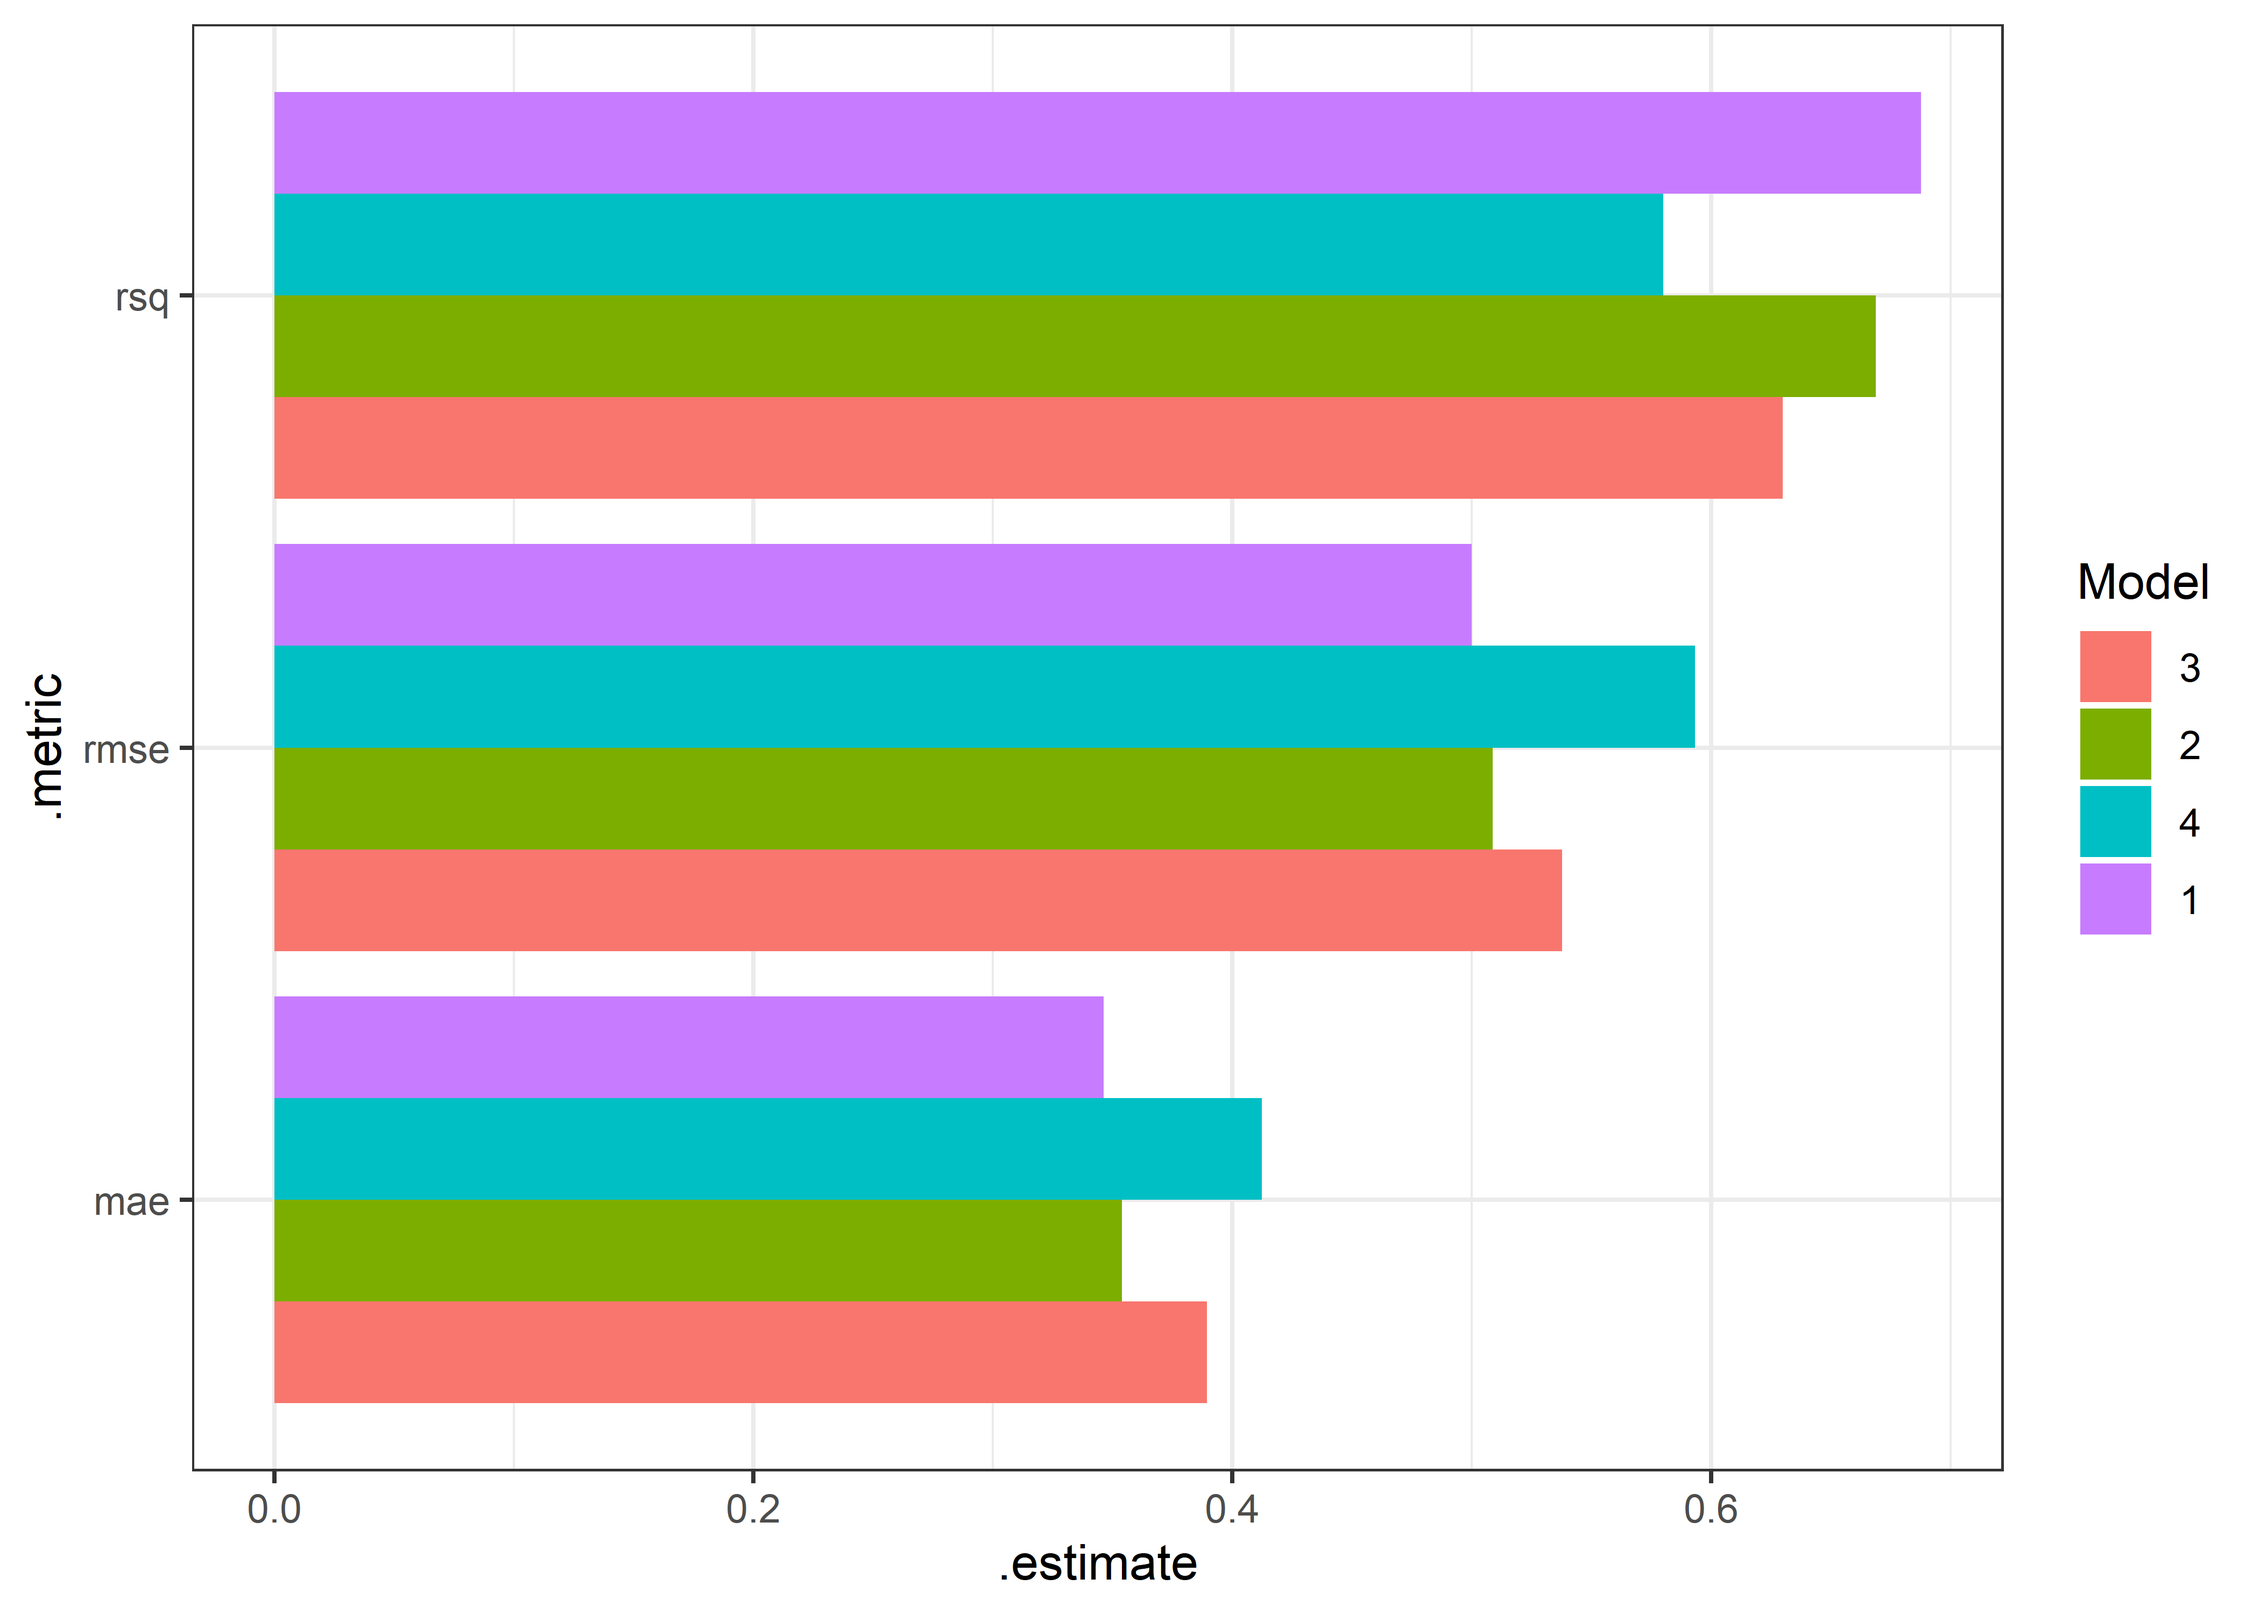
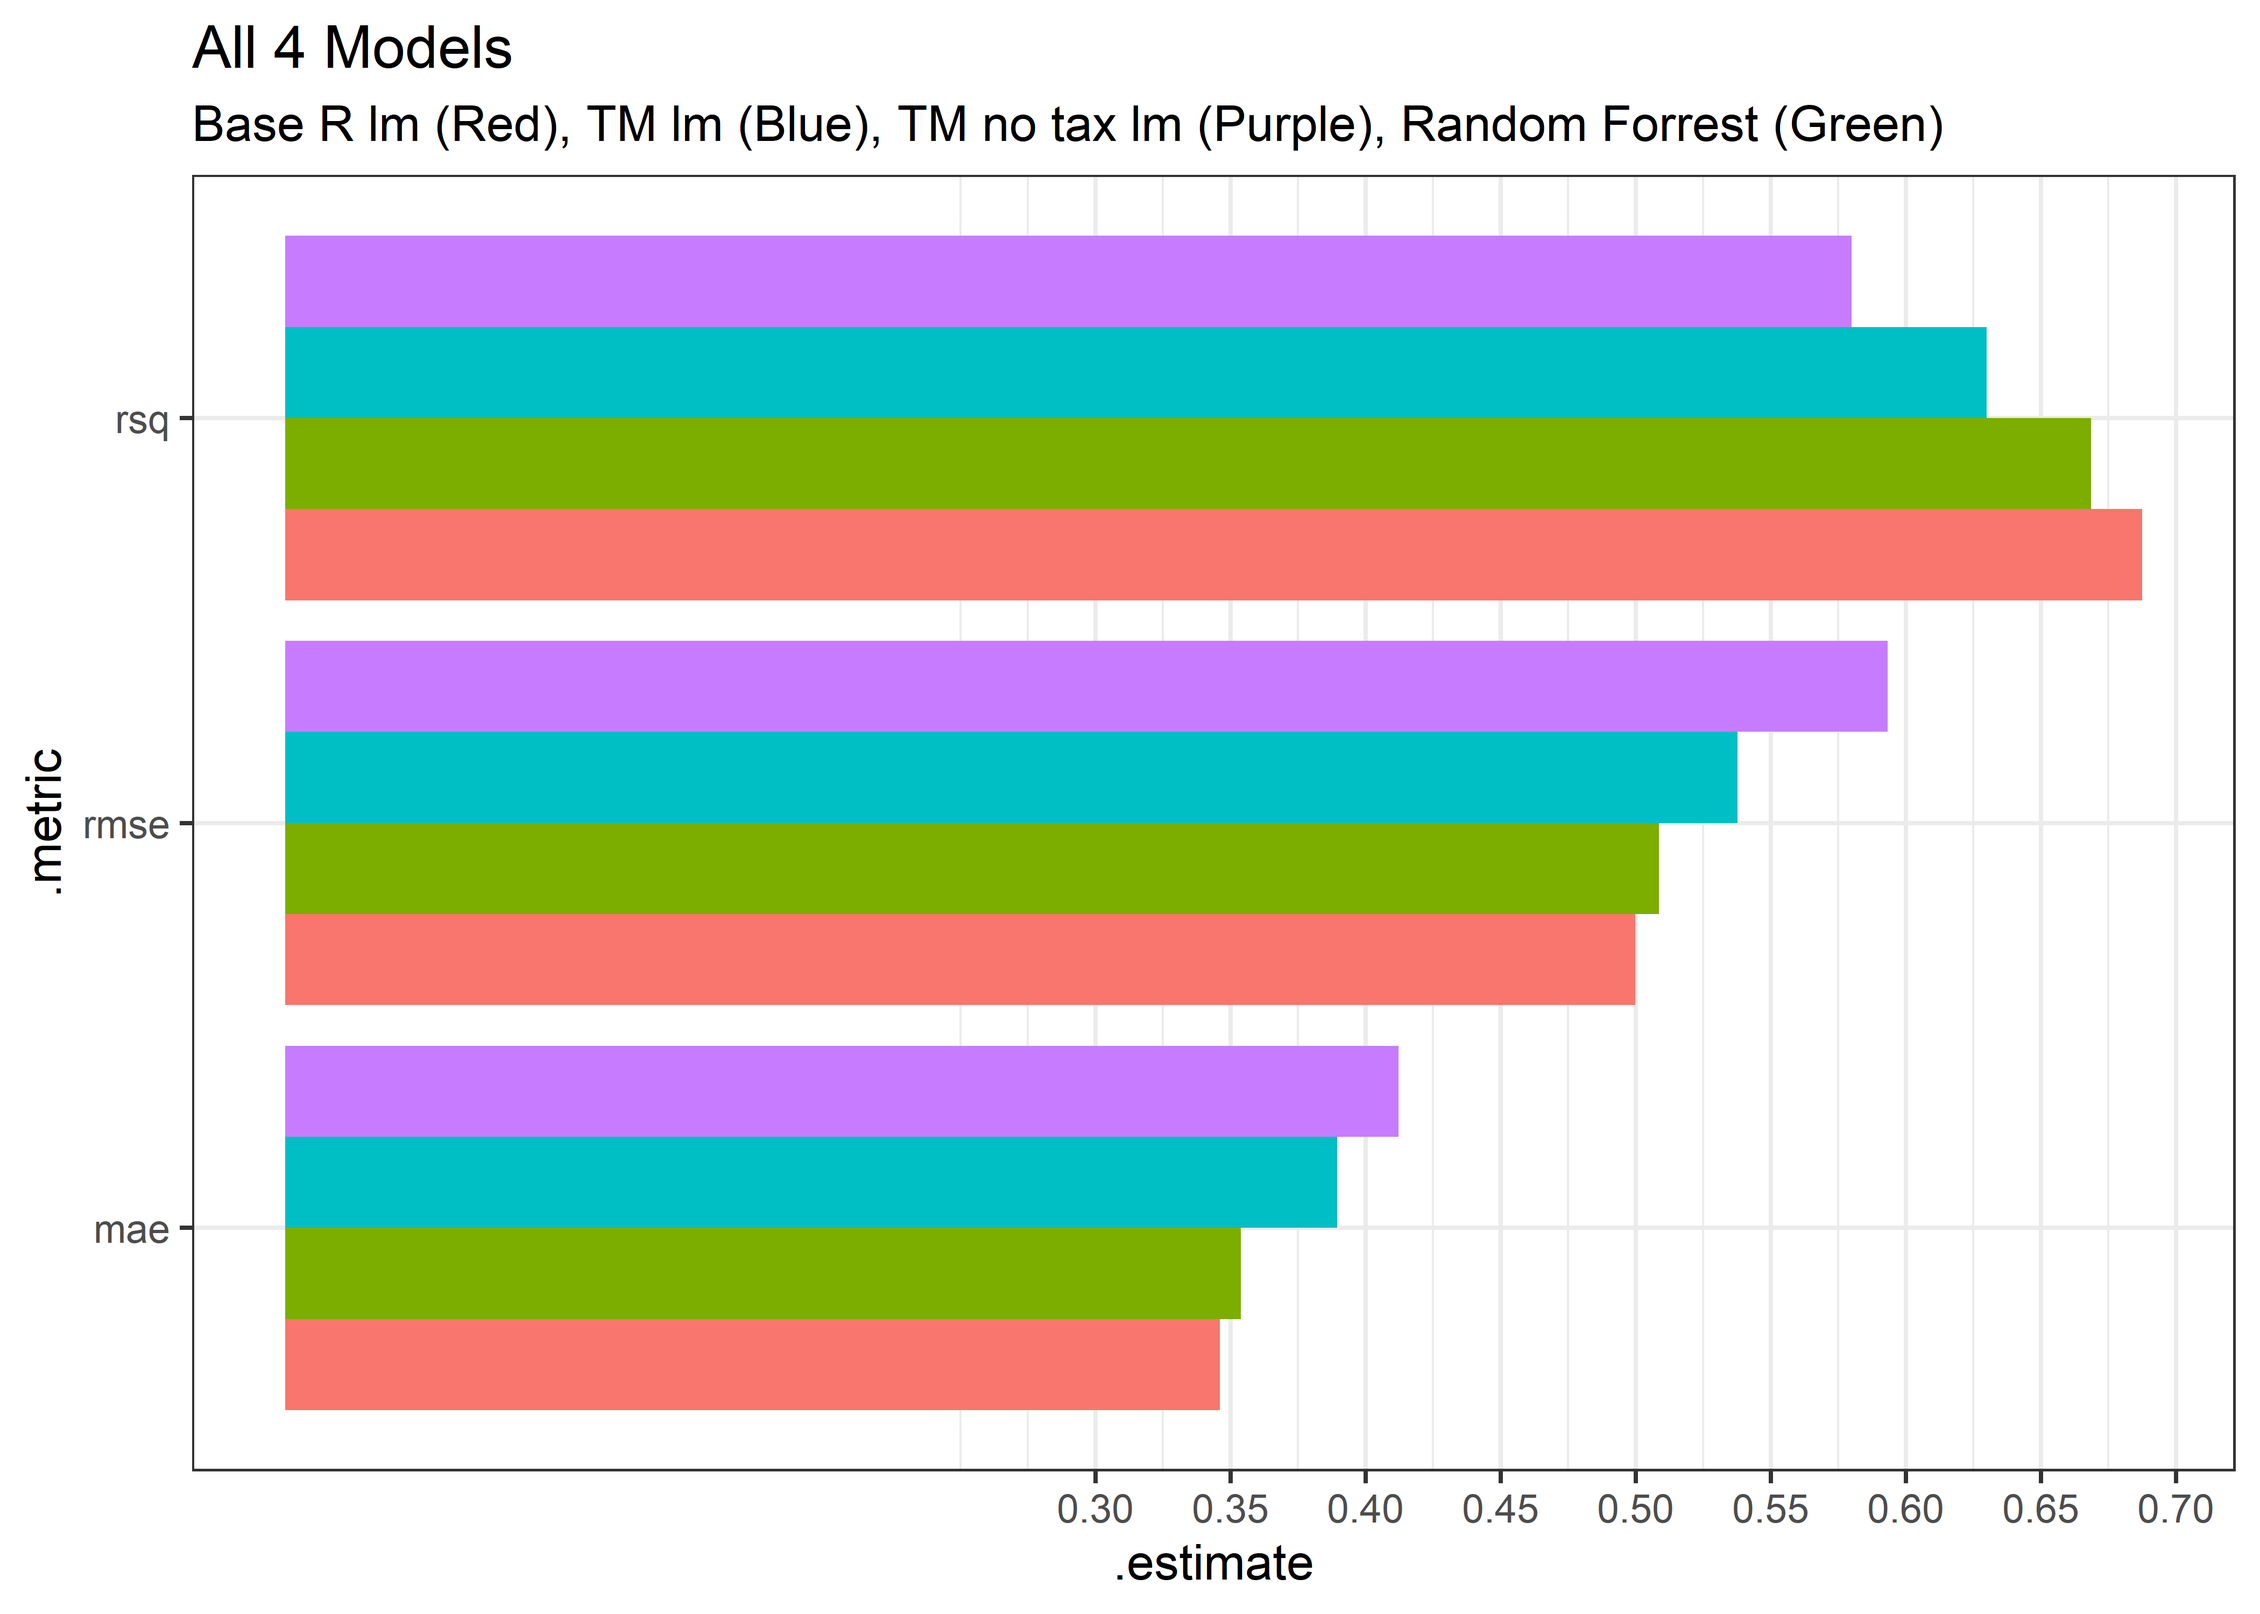
final 4

diff --git a/NYC House Prices/NYC-House-Prices.md b/NYC House Prices/NYC-House-Prices.md
@@ -649,7 +649,7 @@ modrf <- rand_forest() %>%
   set_engine("ranger")
 
 
-recrf <- recipe(price ~ tax + sqft + bath + type_mod + zip_code, train2) %>% 
+recrf <- recipe(price ~ sqft + type_mod + zip_code, train2) %>% 
   step_dummy(all_nominal_predictors()) %>%
   step_interact(terms = ~ starts_with("zip"):all_predictors())
 
@@ -691,8 +691,11 @@ all_metrics_rf %>%
 
 ``` r
 all_metrics_rf %>% 
-  ggplot(aes(.estimate, .metric, fill = fct_relevel(model, c("3","2","4","1")))) +
-  geom_col(position = "dodge") + labs(fill = "Model")
+  ggplot(aes(.estimate, .metric, fill = fct_reorder(model, .estimate, max, .desc = TRUE))) +
+  geom_col(position = "dodge") + 
+  labs(title = "All 4 Models", 
+       subtitle = "Base R lm (Red), TM lm (Blue), TM no tax lm (Purple), Random Forrest (Green)") +
+  theme(legend.position = "none") + scale_x_continuous(breaks = seq(0.3,0.7,0.05))
 ```
 
 ![](NYC-House-Prices_files/figure-gfm/unnamed-chunk-29-1.png)<!-- -->
